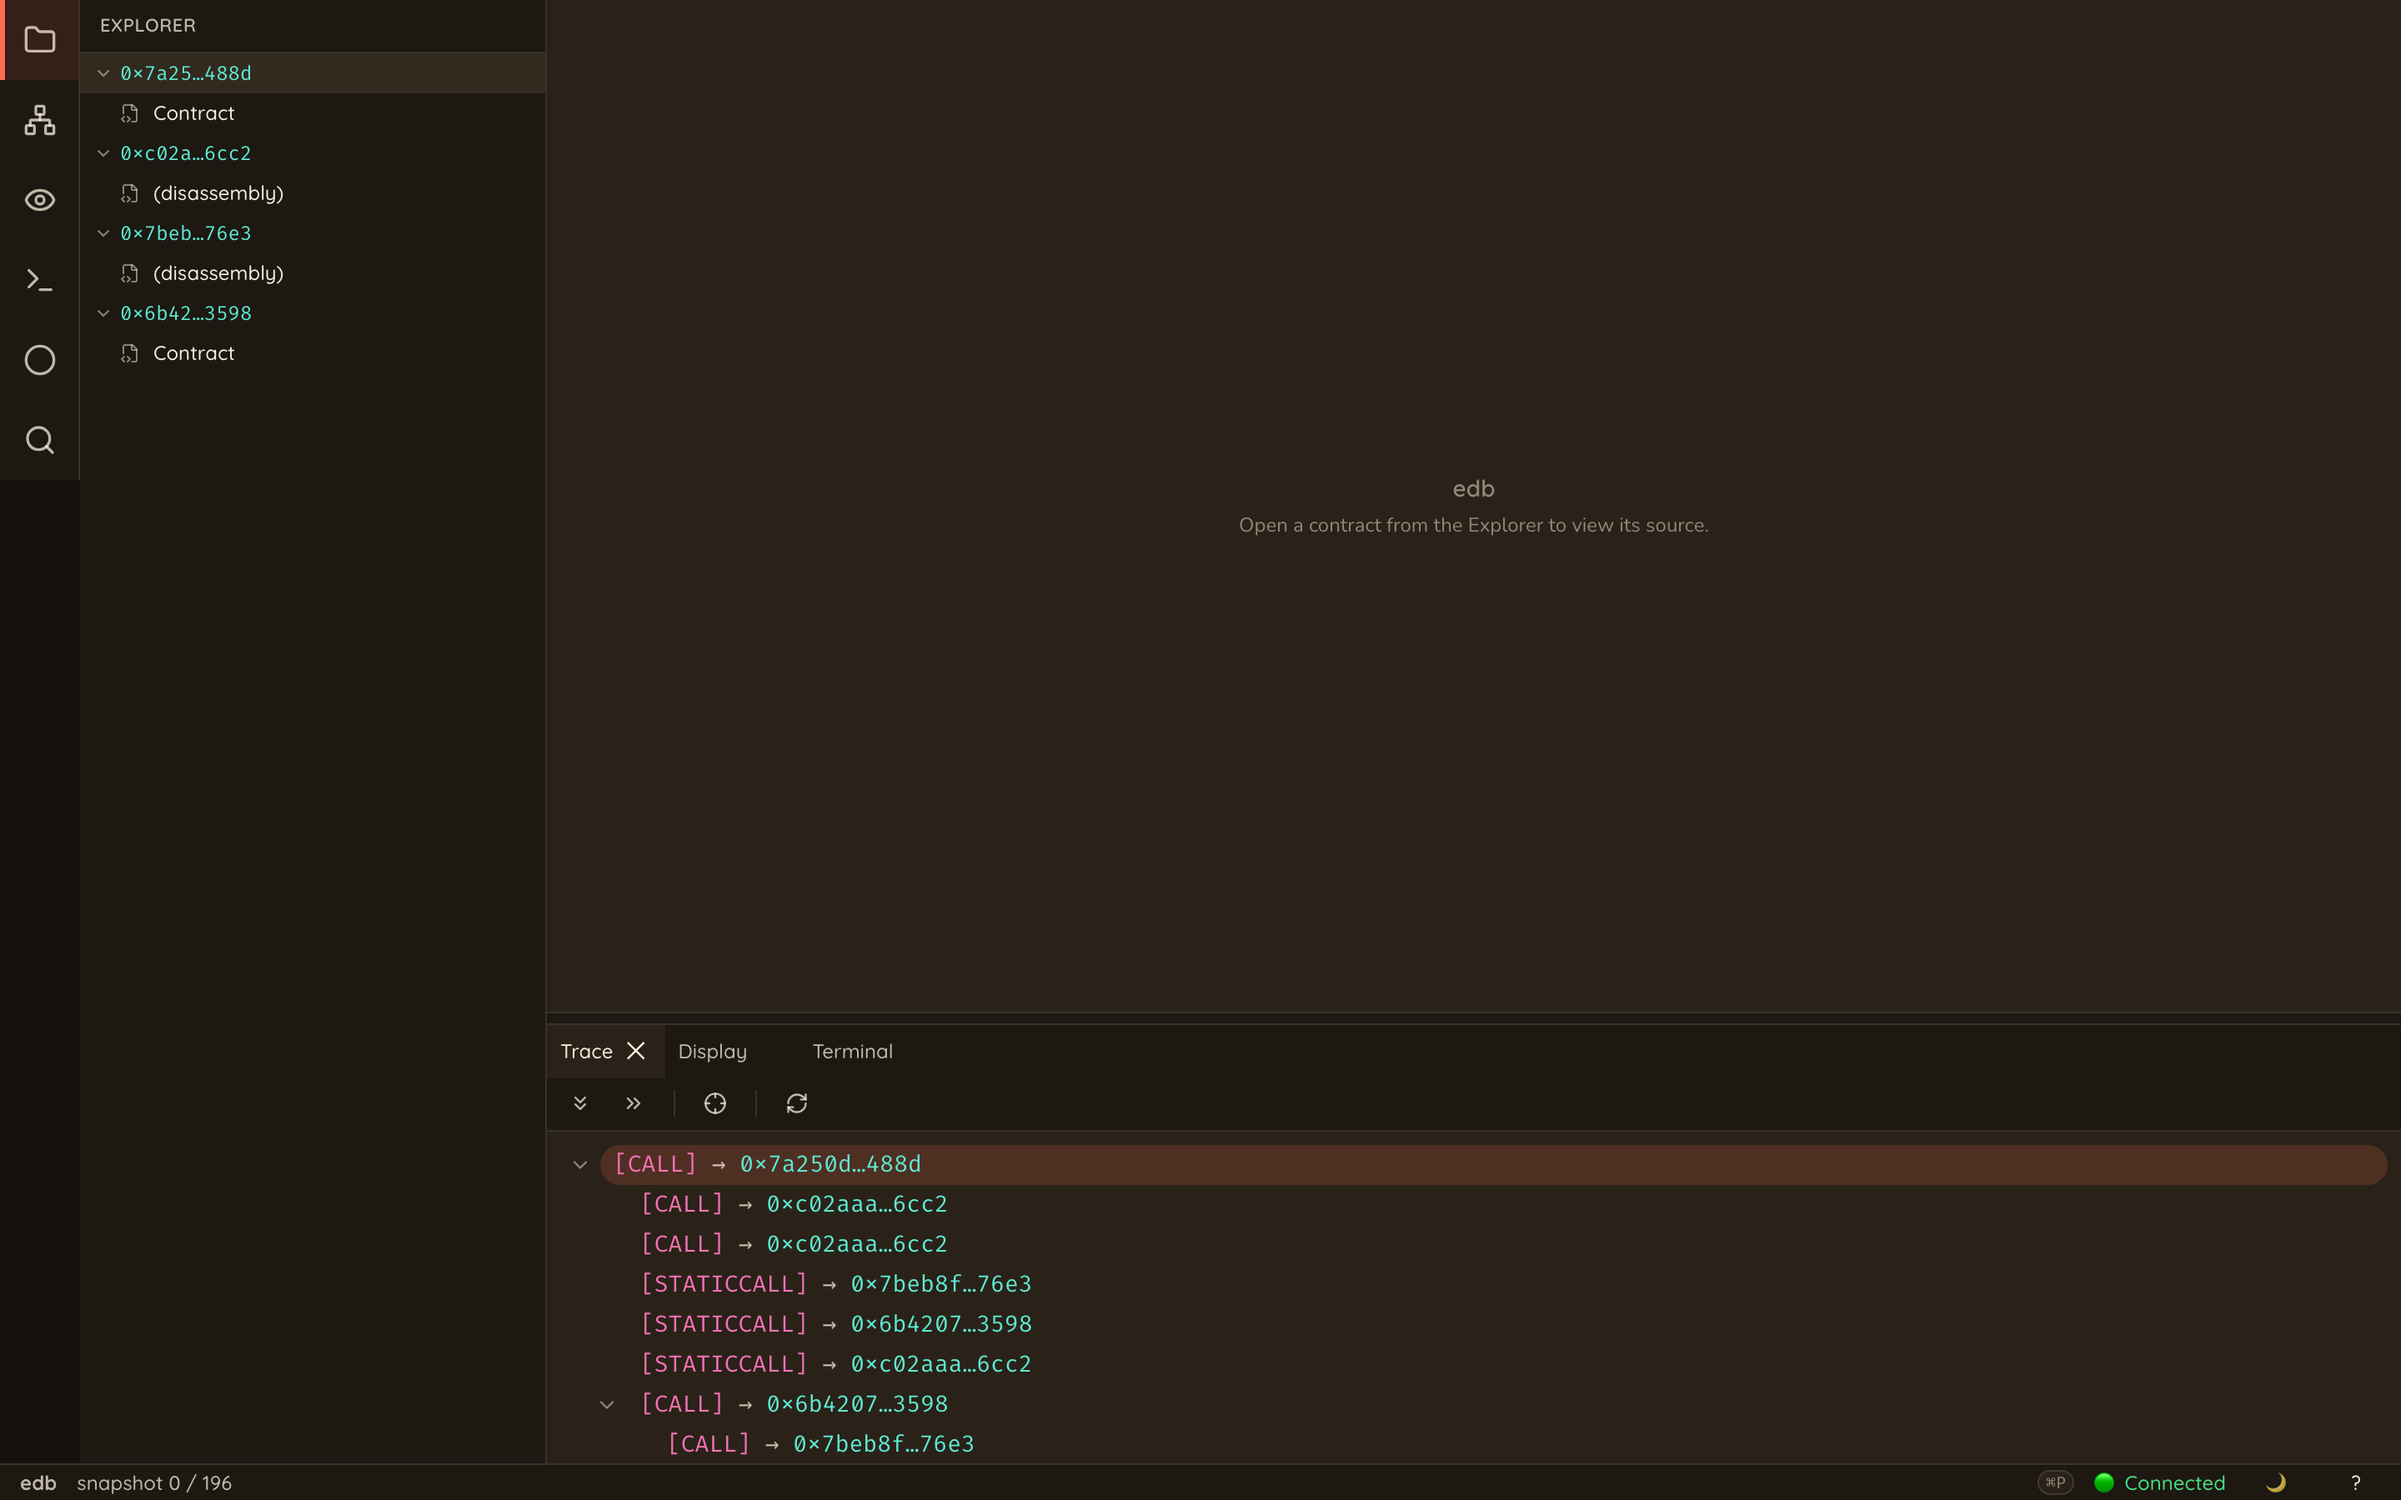
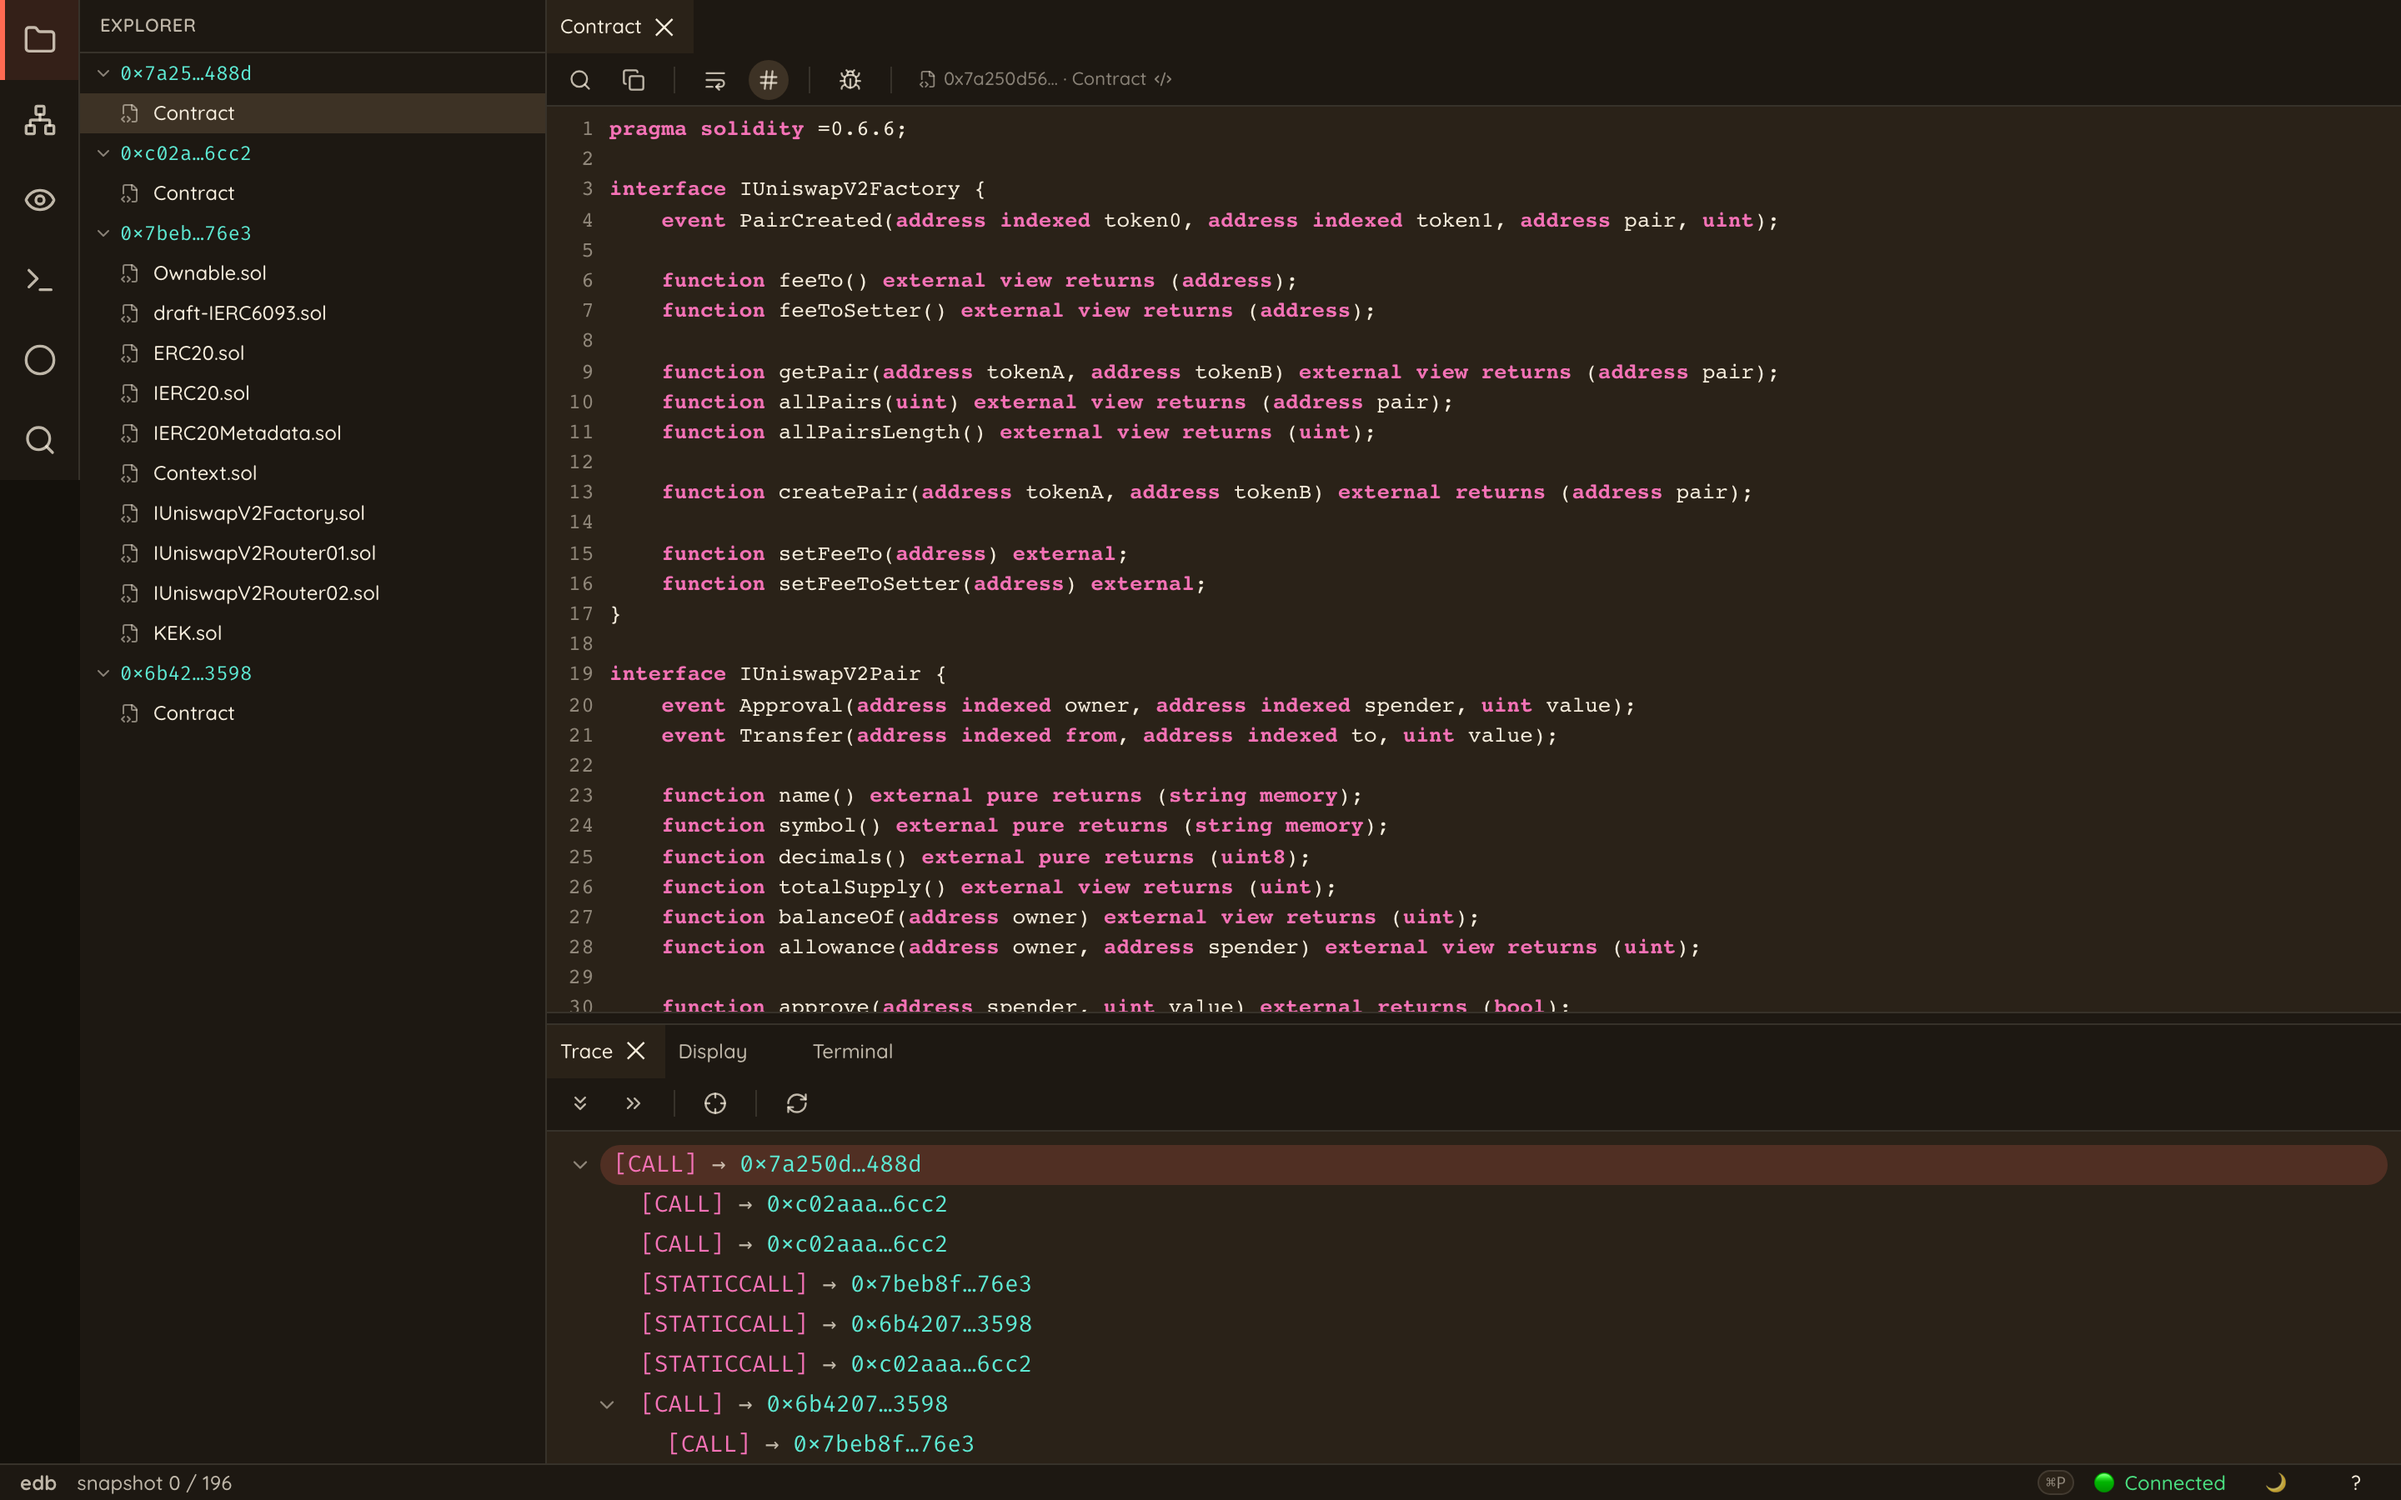
docs(web/ui): refresh screenshots with real Solidity in the editor
The previous screenshots showed only the empty-state placeholder.
Open `Contract` (the Uniswap V2 router source) in the editor before
capturing so the README actually showcases the syntax-highlighted
code view, the file tree, and the trace tree against real engine data.

Adds `crates/web/frontend/scripts/capture-with-file.ts` so future
README refreshes are reproducible (URL=http://… FILE=Contract DARK=1).

diff --git a/crates/web/frontend/scripts/capture-with-file.ts b/crates/web/frontend/scripts/capture-with-file.ts
@@ -1,0 +1,51 @@
+// Capture EDB Web UI screenshots with a real Solidity file open in the
+// editor (so the README screenshots actually showcase the syntax-highlighted
+// code view, not just the empty-state placeholder).
+import { chromium, type Page } from 'playwright';
+
+const url = process.env.URL ?? 'http://127.0.0.1:5173';
+const out = process.env.OUT ?? '../../../resources/edb-web.png';
+const dark = process.env.DARK === '1';
+// Optional file picker: which `.sol` file to open. Defaults to the first
+// available file in the explorer.
+const fileMatch = process.env.FILE ?? '';
+
+const browser = await chromium.launch();
+const ctx = await browser.newContext({
+  viewport: { width: 1440, height: 900 },
+  deviceScaleFactor: 2,
+});
+const page = await ctx.newPage();
+
+if (dark) {
+  await page.addInitScript(() => localStorage.setItem('edb-web:theme', 'dark'));
+}
+
+await page.goto(url, { waitUntil: 'networkidle' });
+await page.waitForTimeout(800);
+
+// Find a Solidity file in the explorer. The explorer renders treeitems with a
+// data-testid prefixed `explorer-file-`; we click the first match (or one
+// whose label contains FILE).
+async function clickFile(page: Page) {
+  const files = page.locator('[data-testid^="explorer-file-"]');
+  const count = await files.count();
+  if (count === 0) throw new Error('no files in explorer — engine may not be ready');
+  let target = files.first();
+  if (fileMatch) {
+    const matched = files.filter({ hasText: fileMatch });
+    if ((await matched.count()) > 0) target = matched.first();
+  }
+  await target.click();
+}
+
+await clickFile(page);
+
+// Wait for the editor to actually mount + render Solidity syntax.
+await page.waitForSelector('.cm-editor', { state: 'visible', timeout: 10_000 });
+// Give CodeMirror a beat to highlight + paint.
+await page.waitForTimeout(900);
+
+await page.screenshot({ path: out, fullPage: false });
+await browser.close();
+console.log(`wrote ${out}`);
